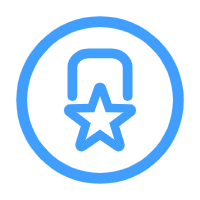
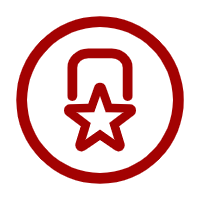
修改界面风格

Changed region(s): [[0.06, 0.06, 0.93, 0.93], [0.3, 0.24, 0.69, 0.78]]

diff --git a/src/components/common/loginHead.vue b/src/components/common/loginHead.vue
@@ -2,7 +2,7 @@
   <div class="header">
     <div class="container gray-head-bgc">
       <div class="head-line">
-        <div class="content-login font12  flex-r flex-b tips-color">
+        <div class="content-login font14  flex-r flex-b fff-font">
           <div class="head-line-left">
             <span>您好，欢迎来到报刊订阅平台</span>
             <router-link to="/" style="text-decoration: none;">
@@ -59,7 +59,7 @@ router-link {
   text-decoration: none;
 }
 .gray-head-bgc {
-  background-color: #f6f6fa;
+  background-color: #202020;
 }
 .content-login {
   width: 980px;
@@ -67,8 +67,8 @@ router-link {
 }
 .head-line {
   width: 100%;
-  height: 30px;
-  line-height: 30px;
+  height: 80px;
+  line-height: 80px;
   /* background-color: #f6f6fa; */
 }
 .head-line-left {

diff --git a/src/components/login.vue b/src/components/login.vue
@@ -4,7 +4,7 @@
     <div class="content">
       <!-- <div>欢迎登录</div> -->
       <div class="flex-r flex-a">
-        <!-- <img class="login-img" src="../assets/img/login-img.png" alt="" /> -->
+        <img class="login-img" src="../assets/img/login-img.png" alt="" />
         <div class="login-box">
           <!-- <div class="login-content"></div> -->
           <loginBox></loginBox>
@@ -58,6 +58,7 @@ export default {
   background-color: #fff;
 }
 .bg-img {
-  background-image: url(../assets/img/bannar.png);
+  /* background-image: url(../assets/img/login-img1.png);
+  background-size: 100% 680px; */
 }
 </style>

diff --git a/src/components/common/myInfo.vue b/src/components/common/myInfo.vue
@@ -20,7 +20,7 @@
             :class="[
               'info-nav-item',
               'pointer',
-              navTitle == 1 ? 'myActiveColor' : 'main-color'
+              navTitle == 1 ? 'main-red' : 'main-color'
             ]"
             @click="selectNav(1)"
           >
@@ -30,7 +30,7 @@
             :class="[
               'info-nav-item',
               'pointer',
-              navTitle == 2 ? 'myActiveColor' : 'main-color'
+              navTitle == 2 ? 'main-red' : 'main-color'
             ]"
             @click="selectNav(2)"
           >

diff --git a/src/components/common/loginBox.vue b/src/components/common/loginBox.vue
@@ -218,7 +218,7 @@ router-link {
   padding: 10px 0px;
 }
 .active-type {
-  border-bottom: 3px solid #409eff;
+  border-bottom: 3px solid #a30202;
 }
 .account-inp {
   width: calc(100% - 32px);
@@ -251,7 +251,7 @@ router-link {
   height: 32px;
   text-align: center;
   line-height: 32px;
-  background-color: #409eff;
+  background-color: #a30202;
   cursor: pointer;
 }
 .other-page {

diff --git a/src/components/my.vue b/src/components/my.vue
@@ -13,7 +13,7 @@
             <li
               v-for="(item, index) in navList"
               :key="index"
-              :class="[navNum == index ? 'primary-color' : '']"
+              :class="[navNum == index ? 'main-red' : '']"
               @click="chooseNav(index)"
             >
               {{ item }}

diff --git a/src/components/common/myHeader.vue b/src/components/common/myHeader.vue
@@ -81,11 +81,11 @@ router-link {
   width: 100%;
   background-image: linear-gradient(
     90deg,
-    #1058ac 0%,
-    #2269bb 23%,
-    #2f75c5 56%,
-    #498ddc 85%,
-    #409eff 100%
+    #a30202 0%,
+    #b60202 23%,
+    #cb0303 56%,
+    #e01313 85%,
+    #f32626 100%
   );
 }
 .container-my {

diff --git a/src/components/common/footer.vue b/src/components/common/footer.vue
@@ -87,7 +87,7 @@
 .footer {
   width: 100%;
   height: auto;
-  border-top: 5px solid #409eff;
+  border-top: 5px solid #a30202;
   /* margin-top: 40px; */
 }
 .footer-box {

diff --git a/src/assets/css/gloab.css b/src/assets/css/gloab.css
@@ -66,6 +66,9 @@ input {
 .fff-font {
   color: #fff;
 }
+.main-red {
+  color: #a30202;
+}
 .price-color {
   color: #ff8400;
 }
